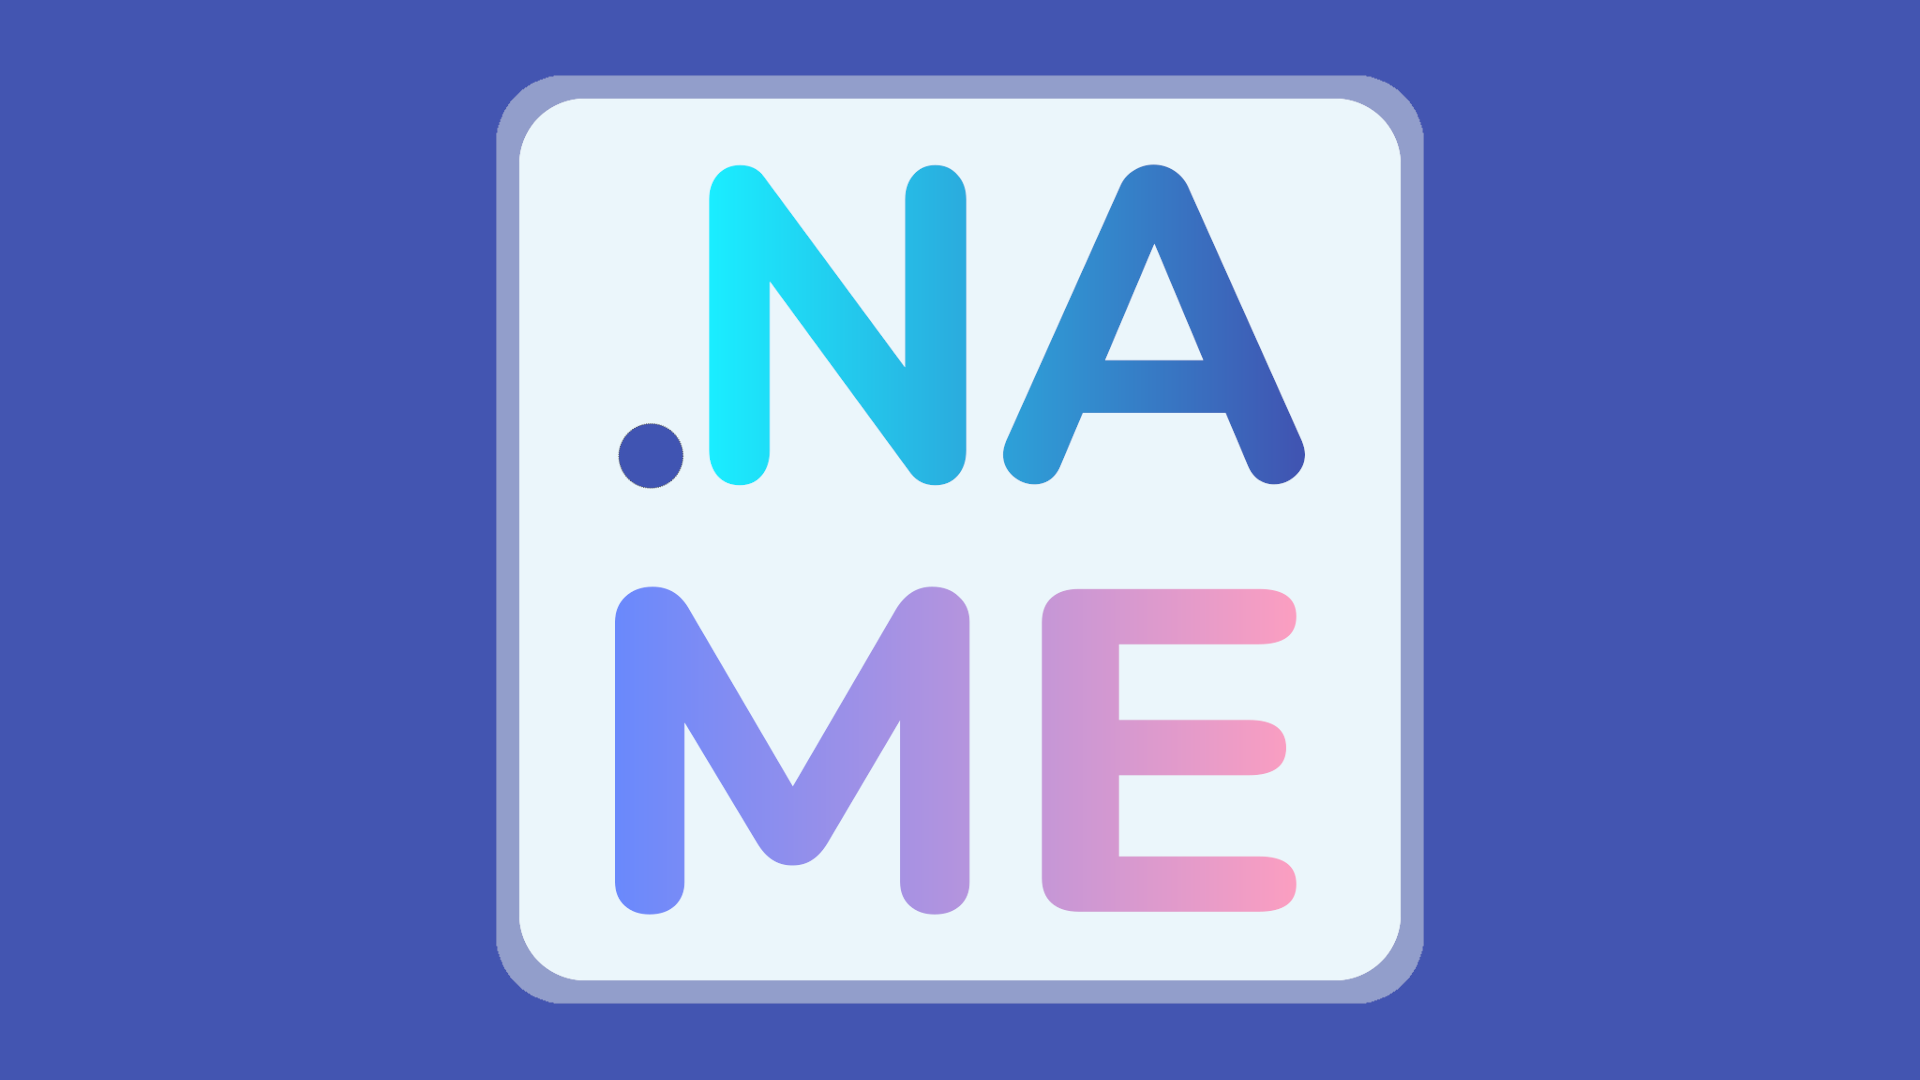
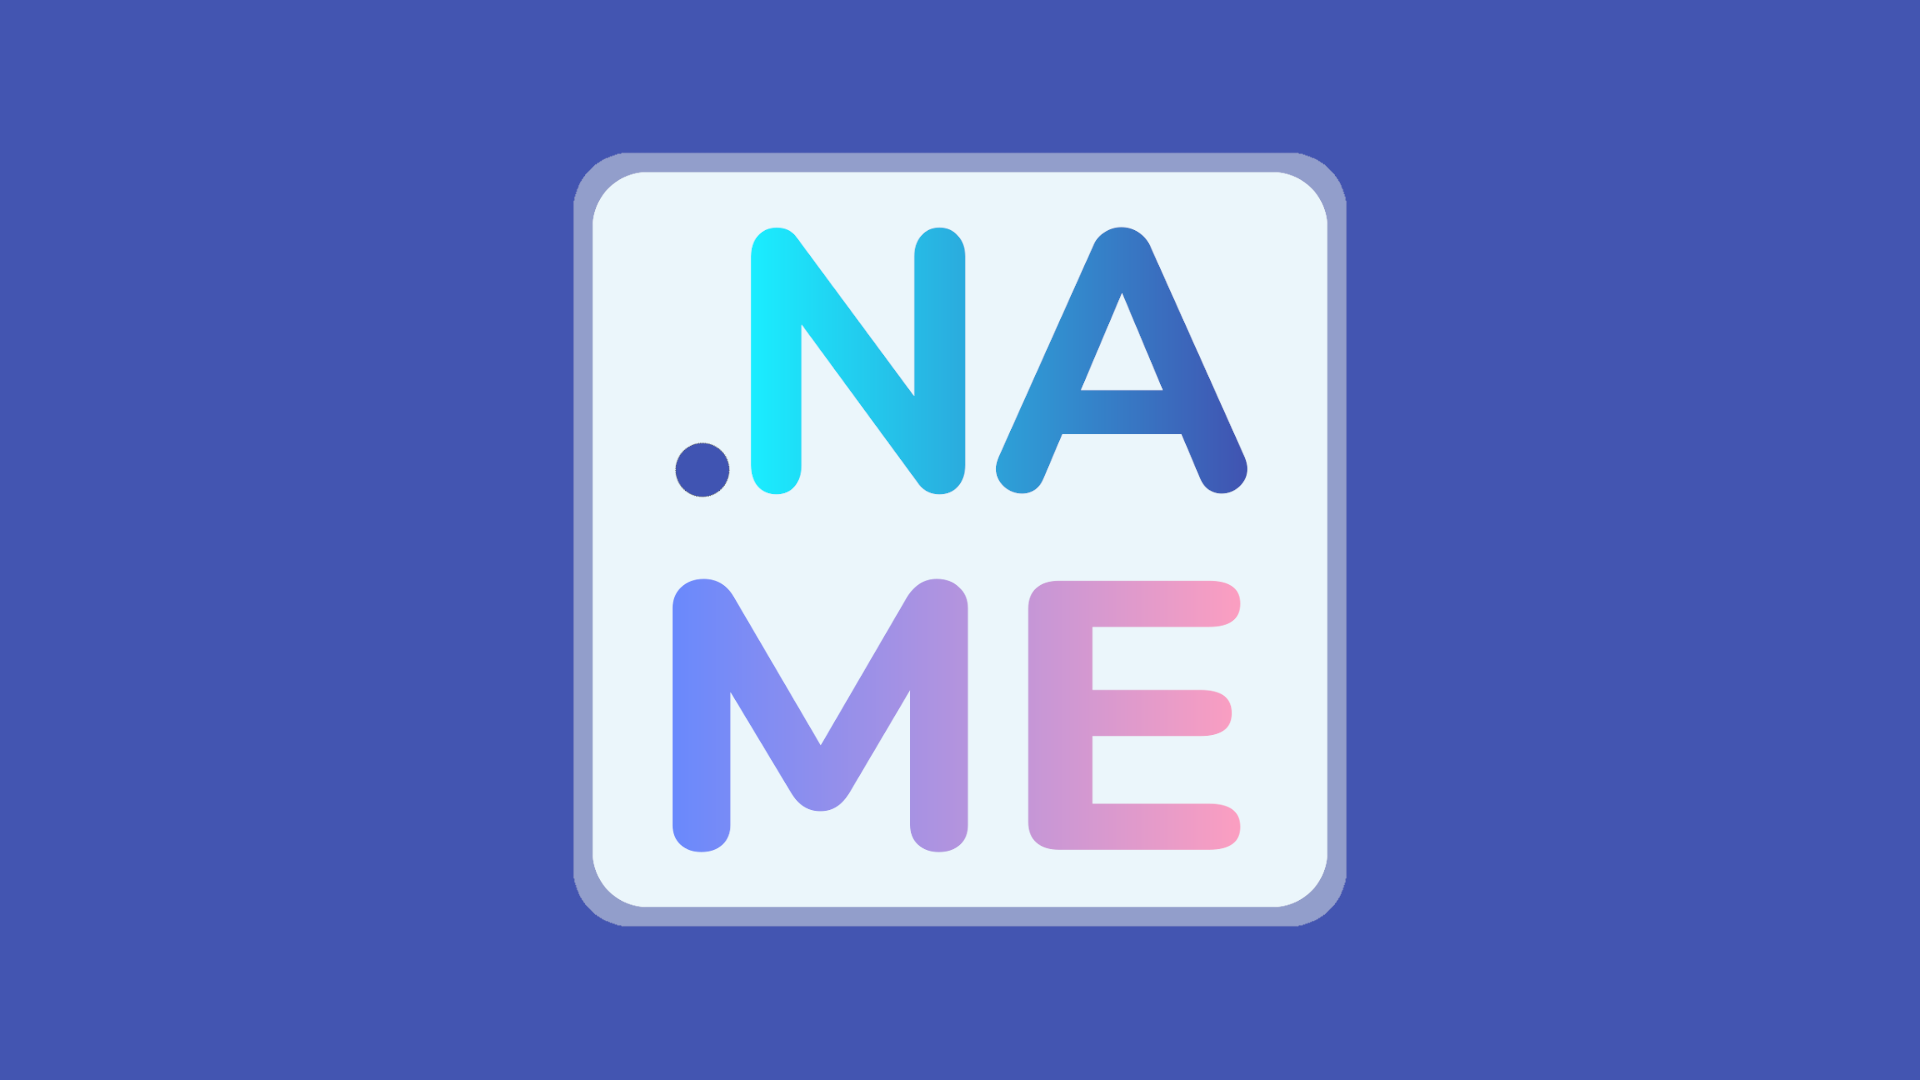
feat: even smaller square in og image

Changed region(s): [[0.25, 0.0611, 0.75, 0.9472], [0.4688, 0.5194, 0.5, 0.55]]

diff --git a/components/Layout.js b/components/Layout.js
@@ -44,7 +44,7 @@ export default function Layout({
         <meta property="og:description" content={description} />
         <meta
           property="og:image"
-          content="https://changemy.name/share_image.png?v=1"
+          content="https://changemy.name/share_image.png?v=2"
         />
         <meta name="twitter:card" content="summary_large_image" />
       </Head>
